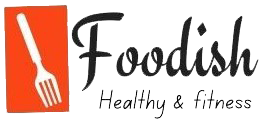
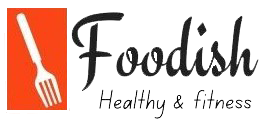
editing

diff --git a/public/styles/footer.css b/public/styles/footer.css
@@ -7,7 +7,7 @@ footer
     display: flex;
     flex-direction: row;
     justify-content:space-around;
-    background-color: seagreen;
+    background-color: #0A7029;
     align-items: center;
     height: 150px;
     
@@ -36,8 +36,8 @@ div p {
    
 }
 .imglogo img{
-    width: 75px;
-    height: 30px;
+    width: 175px;
+    height: 90px;
     /* margin: 12px; */
     /* margin-left: 170px; */
     /* margin-top: 17px; */

diff --git a/public/styles/recipe.css b/public/styles/recipe.css
@@ -57,7 +57,7 @@ form input
 form  {
     /* background-color: #adadab; */
     padding: 40px;
-    margin: 50px 0;
+    /* margin: 50px 0; */
     border-radius: 40px;
     
   }
